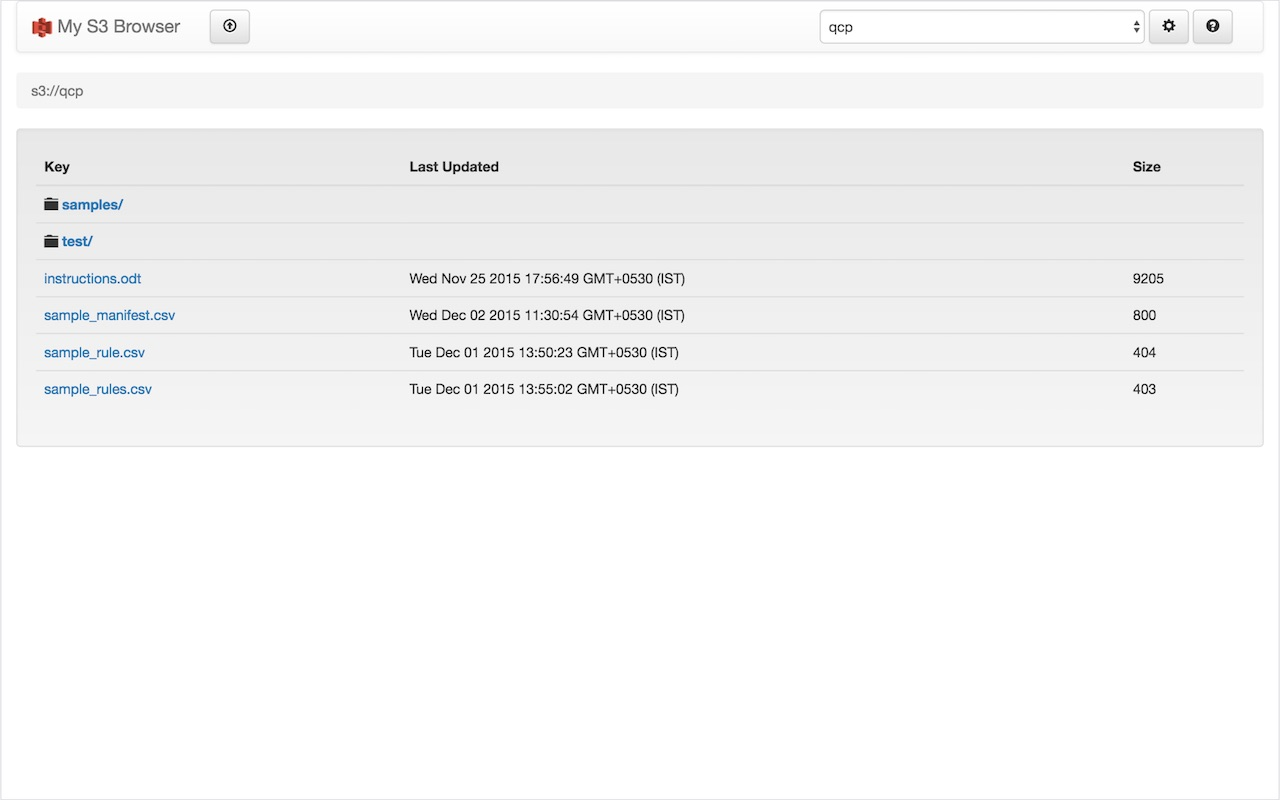
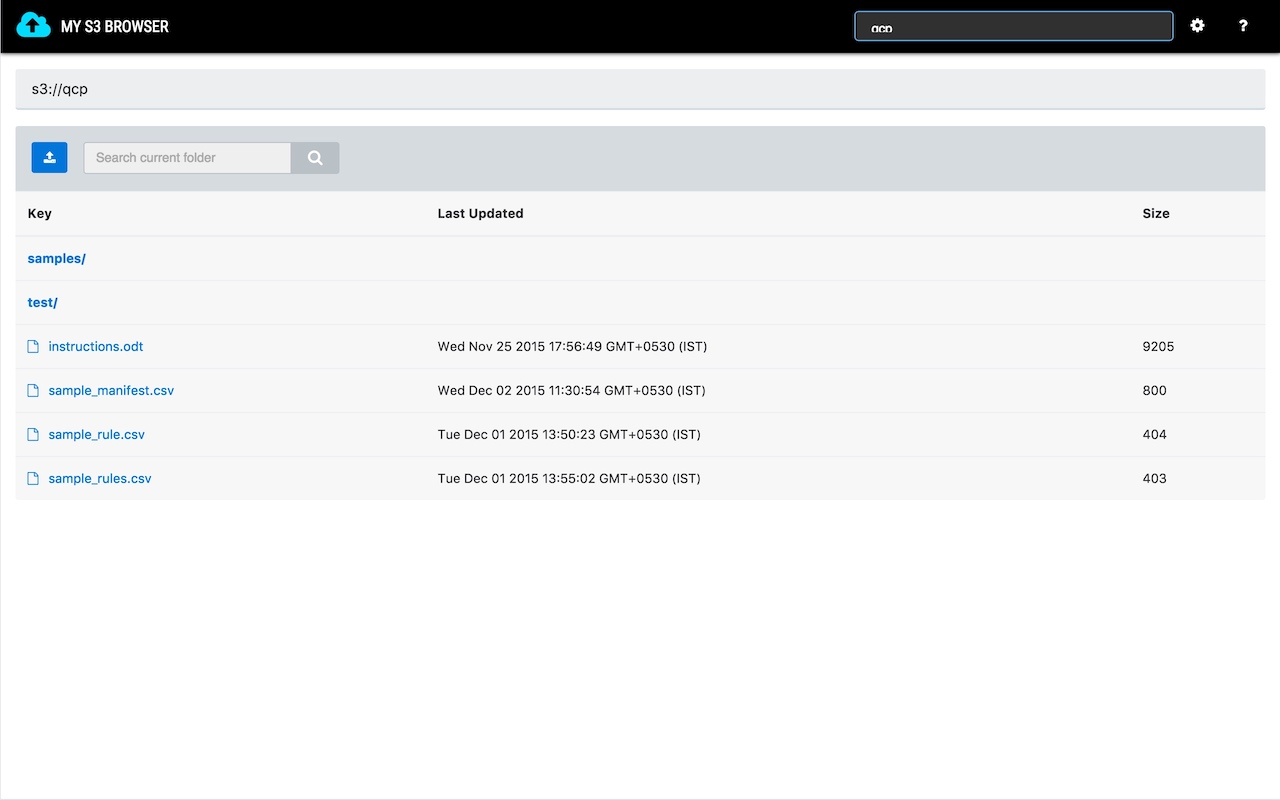
Human readbable file size and search on enter key press

diff --git a/app/scripts.babel/index.js b/app/scripts.babel/index.js
@@ -24,6 +24,22 @@ var state = {};
 //     }
 // });
 
+function humanFileSize(bytes, si) {
+    var thresh = si ? 1000 : 1024;
+    if(Math.abs(bytes) < thresh) {
+        return bytes + ' B';
+    }
+    var units = si
+            ? ['KB','MB','GB','TB','PB','EB','ZB','YB']
+            : ['KiB','MiB','GiB','TiB','PiB','EiB','ZiB','YiB'];
+    var u = -1;
+    do {
+        bytes /= thresh;
+        ++u;
+    } while(Math.abs(bytes) >= thresh && u < units.length - 1);
+    return bytes.toFixed(1)+' '+units[u];
+}
+
 function listBuckets(s3, s3Bucket) {
     if (window.console) { console.log('Done'); }
     s3.listBuckets(function(err, buckets) {
@@ -157,7 +173,7 @@ function listObjects(s3, s3Bucket, s3_prefix, s3_marker='') {
                 ).append(
                     $('<td>').html(file.LastModified)
                 ).append(
-                    $('<td>').html(file.Size)
+                    $('<td>').html(humanFileSize(file.Size, true))
                 ).appendTo(tbody);
             });
             if(files.IsTruncated) {
@@ -386,12 +402,20 @@ function setup() {
             if (window.console) { console.log('nothing to upload'); }
         }
     });
-    $('#buckets-search').click(function() {
+    function aws_prefix_search() {
         var search_query = $('#buckets-search-query').val();
         var tags = state.prefix.split('/');
         tags.pop();
         var search_prefix = listObjects(s3, state.s3Bucket, tags.join('/') + '/' + search_query);
         window.history.pushState(state, state.prefix+':'+state.marker);
+    }
+    $('#buckets-search').click(function() {
+        aws_prefix_search();
+    });
+    $('#buckets-search-query').keydown(function(e) {
+        var keypressed = event.keyCode || event.which;
+        // Enter is pressed
+        if (keypressed == 13) { aws_prefix_search(); }
     });
 }
 
